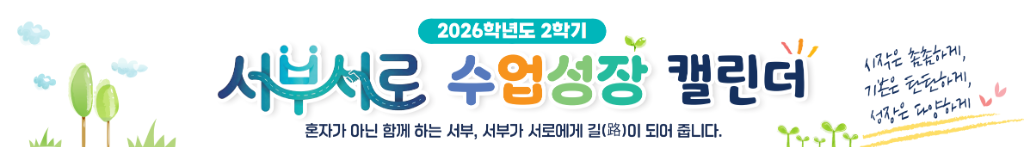
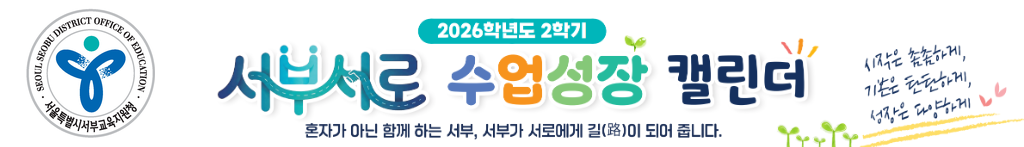
feat: 상단 배너 나무 및 구름 그래픽 제거 후 서부교육지원청 공식 엠블럼 적용

Changed region(s): [[0.0, 0.0544, 0.1875, 1.0]]

diff --git a/index.html b/index.html
@@ -19,10 +19,10 @@
   <script src="https://cdn.jsdelivr.net/npm/xlsx@0.18.5/dist/xlsx.full.min.js"></script>
 
   <!-- Style Sheets with Cache Busting -->
-  <link rel="stylesheet" href="css/m3-tokens.css?v=20260918_v6">
-  <link rel="stylesheet" href="css/base.css?v=20260918_v6">
-  <link rel="stylesheet" href="css/components.css?v=20260918_v6">
-  <link rel="stylesheet" href="css/responsive.css?v=20260918_v6">
+  <link rel="stylesheet" href="css/m3-tokens.css?v=20260918_v7">
+  <link rel="stylesheet" href="css/base.css?v=20260918_v7">
+  <link rel="stylesheet" href="css/components.css?v=20260918_v7">
+  <link rel="stylesheet" href="css/responsive.css?v=20260918_v7">
 </head>
 <body>
   <!-- 상단 헤더 마운트 영역 -->
@@ -57,6 +57,6 @@
   <div id="modal-mount"></div>
 
   <!-- 메인 스크립트 진입점 -->
-  <script type="module" src="js/app.js?v=20260918_v6"></script>
+  <script type="module" src="js/app.js?v=20260918_v7"></script>
 </body>
 </html>

diff --git a/js/components/header.js b/js/components/header.js
@@ -5,7 +5,7 @@ export function renderHeader(container) {
         <!-- 메인 타이틀 (인쇄물 공식 그래픽 배너) -->
         <div class="main-title-wrap">
           <img 
-            src="assets/images/title-logo.png" 
+            src="assets/images/title-logo.png?v=20260918_v7" 
             alt="2026학년도 2학기 서부서로 수업성장 캘린더 - 혼자가 아닌 함께 하는 서부, 서부가 서로에게 길(路)이 되어 줍니다." 
             class="header-official-logo-img" 
           />
